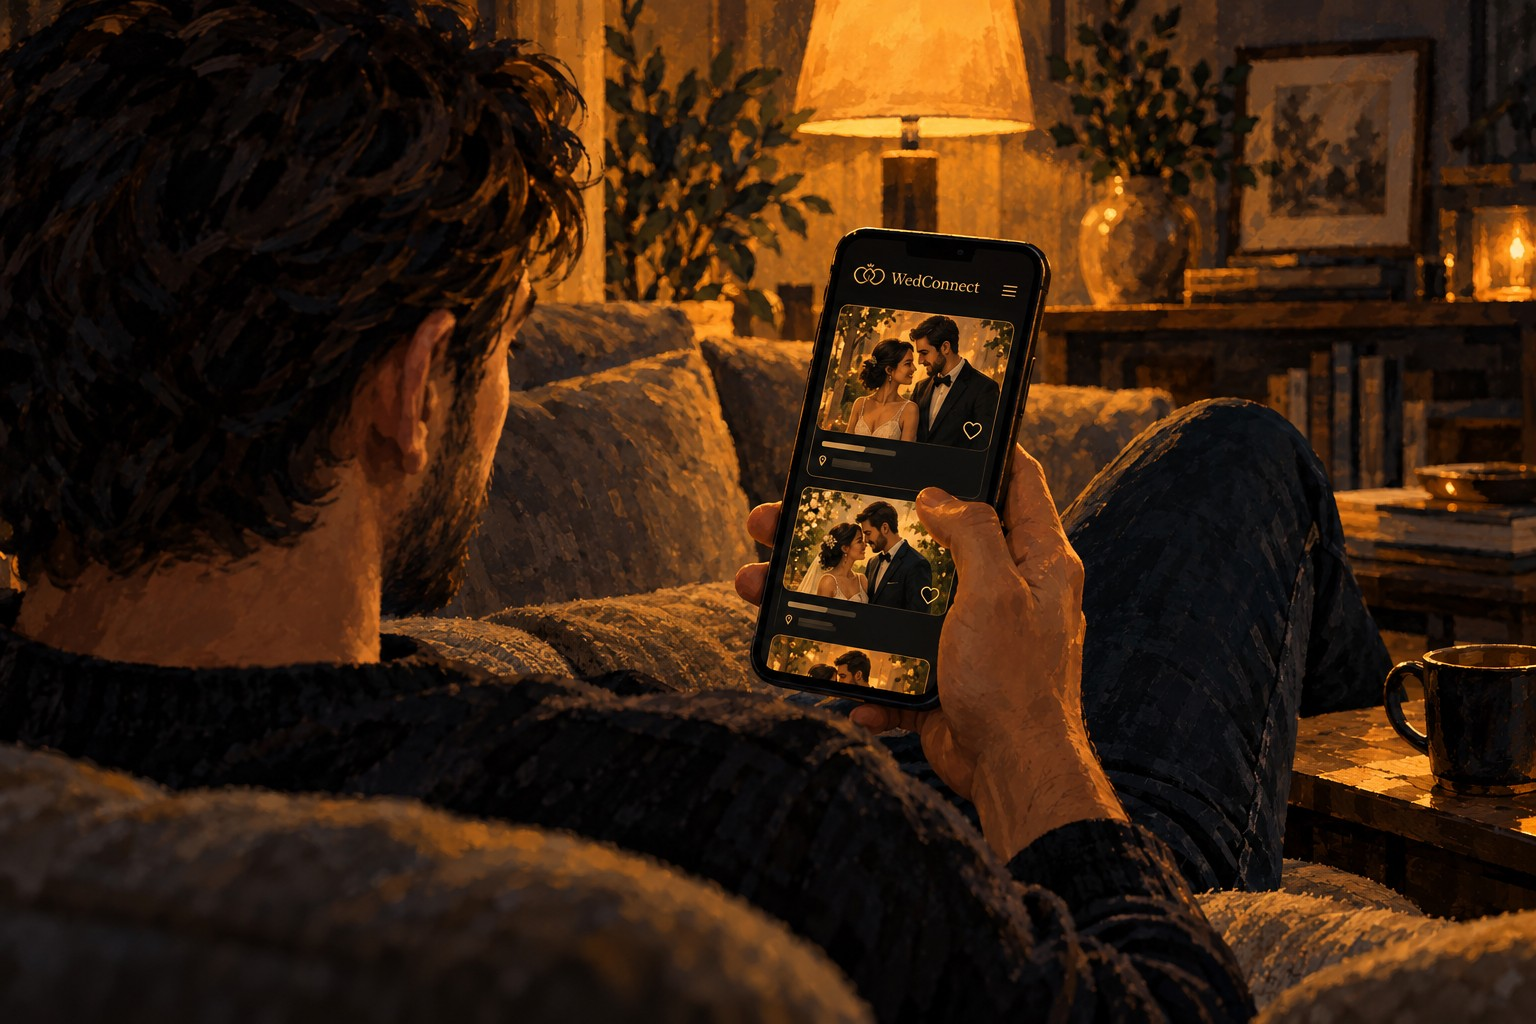
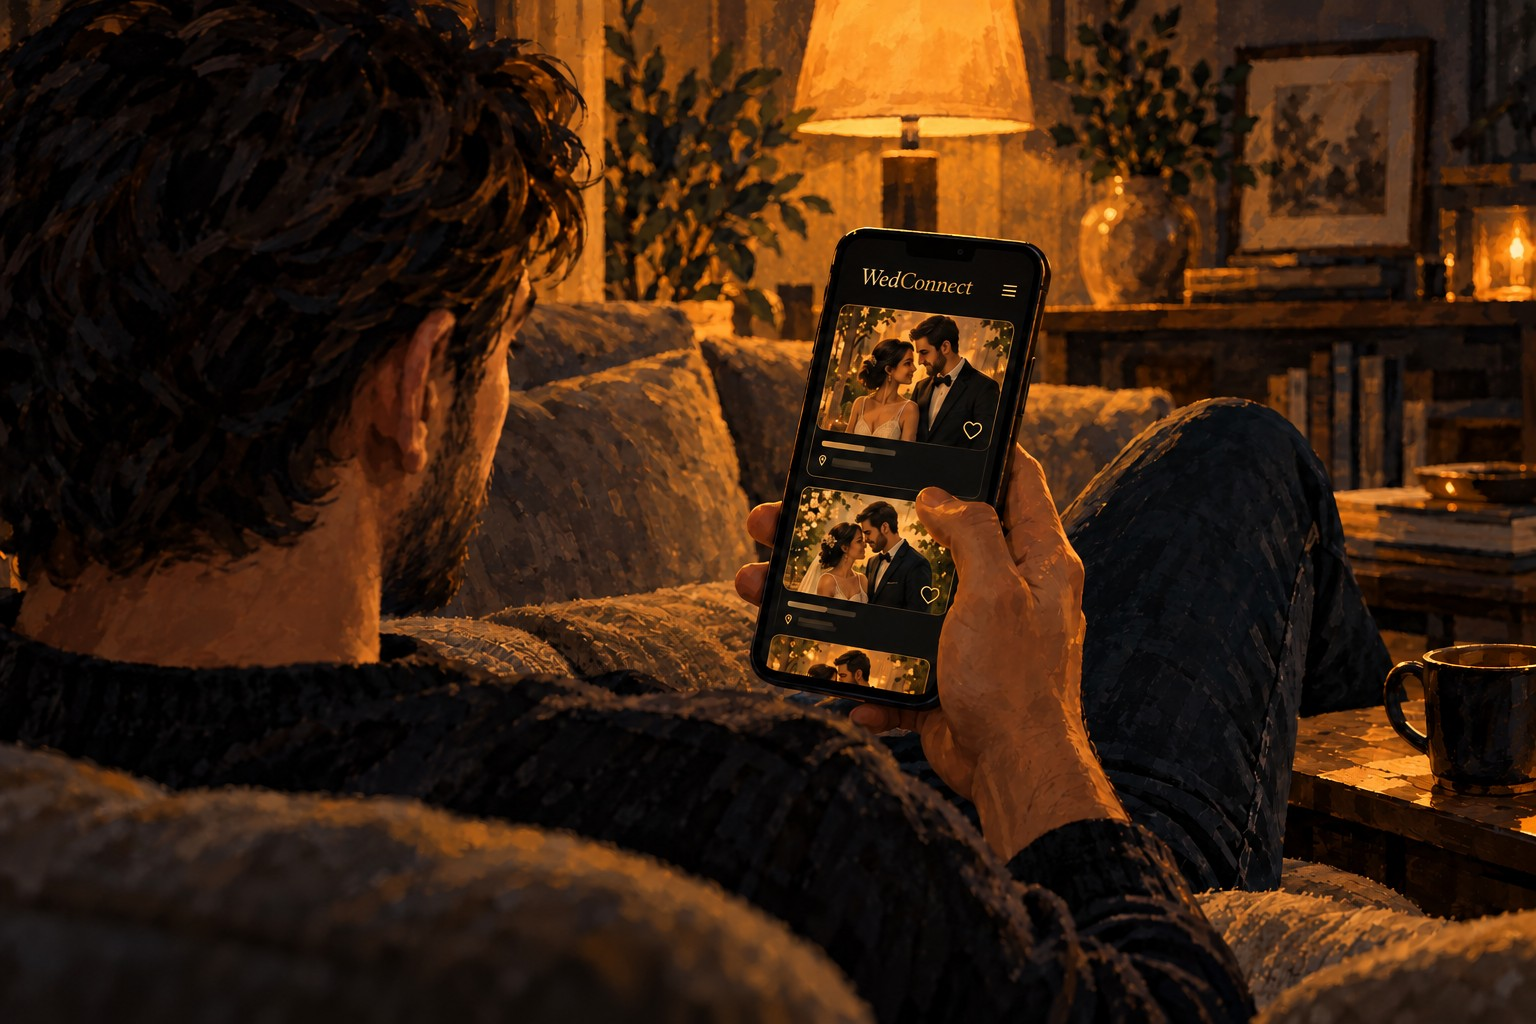
Add WedConnect wordmark and tighten match note spacing

diff --git a/fotografen.html b/fotografen.html
@@ -239,7 +239,9 @@
     .process-heading > div { max-width: 820px; }
     .process-intro { max-width: 760px; margin-top: 15px; color: var(--muted); font-size: clamp(15.52px, 1.46vw, 17.46px); line-height: 1.8; }
     .mutual-note { justify-content: flex-start; text-align: left; }
-    .mutual-note p { max-width: 850px; font-size: 15.52px; line-height: 1.75; }\n    .process-steps h3 { font-size: 15.52px; }\n    .process-steps p { max-width: none; font-size: 15.52px; line-height: 1.75; }
+    .mutual-note p { max-width: 850px; font-size: 15.52px; line-height: 1.75; }
+    .process-steps h3 { font-size: 15.52px; }
+    .process-steps p { max-width: none; font-size: 15.52px; line-height: 1.75; }
     .process-layout { display: grid; grid-template-columns: minmax(0, .88fr) minmax(0, 1.12fr); gap: clamp(28px, 5vw, 58px); align-items: center; }
     .process-figure img { aspect-ratio: 1.38 / 1; }
     .process-right { min-width: 0; }
@@ -532,7 +534,7 @@
             </div>
           </header>
           <div class="process-layout">
-            <figure class="story-figure process-figure"><img src="https://raw.githubusercontent.com/Supersheriff1/WedConnect_new/main/assets/illustrations/fotografen-match-fotograf.jpg" alt="Ein Hochzeitsfotograf sucht auf seinem Smartphone in der WedConnect App nach passenden Hochzeitspaaren." loading="lazy"><figcaption><span>Passende Hochzeiten entdecken</span><span>WEDCONNECT · 02</span></figcaption></figure>
+            <figure class="story-figure process-figure"><img src="https://raw.githubusercontent.com/Supersheriff1/WedConnect_new/main/assets/illustrations/fotografen-match-fotograf.jpg" alt="Ein Hochzeitsfotograf sucht auf seinem Smartphone in der WedConnect App nach passenden Hochzeitspaaren." loading="lazy"><span class="process-watermark" aria-label="WedConnect"><span class="brand-word">Wed</span><span class="brand-mark">Connect</span></span><figcaption><span>Passende Hochzeiten entdecken</span><span>WEDCONNECT · 02</span></figcaption></figure>
             <div class="process-right">
               <ol class="process-steps">
                 <li>
